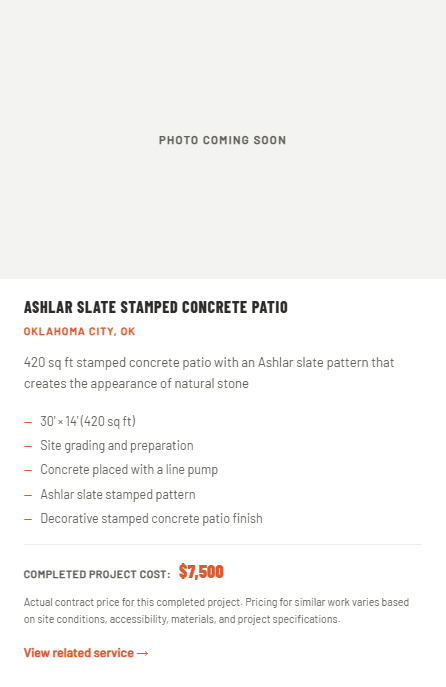
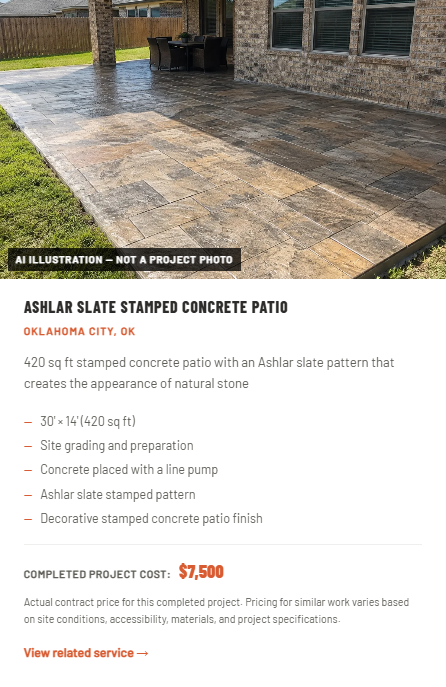
Show the owner-supplied ChatGPT Ashlar slate image on the Oklahoma City stamped patio card, labeled as an AI illustration.
WebP copy (1200x900) of the owner's ChatGPT-generated image; its C2PA manifest marks it as AI-created, so the alt text, filename, and a visible card label identify it as an illustration rather than a photo of the completed project. Screenshots refreshed.

diff --git a/src/test/project-showcase.test.tsx b/src/test/project-showcase.test.tsx
@@ -222,6 +222,38 @@ describe("Oklahoma City Ashlar slate stamped patio", () => {
     expect(JSON.stringify(stamped())).not.toMatch(/norman/i);
   });
 
+  it("uses a single image that is labeled as an AI illustration, not a project photo", () => {
+    expect(stamped().images).toEqual([
+      {
+        src: "/images/projects/ashlar-slate-stamped-concrete-patio-ai-illustration-oklahoma-city.webp",
+        alt: expect.stringMatching(/^AI-generated illustration .*not a photo of the completed Oklahoma City project$/),
+        illustration: true,
+      },
+    ]);
+    expect(PROJECTS.filter((p) => p.id !== STAMPED_ID).flatMap((p) => p.images).some((i) => i.illustration)).toBe(false);
+  });
+
+  it("shows the visible AI illustration label on the home card", () => {
+    render(
+      <MemoryRouter>
+        <ProjectGrid ids={[STAMPED_ID]} />
+      </MemoryRouter>,
+    );
+    const card = screen.getByRole("article");
+    expect(within(card).getByRole("img").getAttribute("alt")).toMatch(/AI-generated illustration/);
+    expect(within(card).getByText("AI illustration — not a project photo")).toBeTruthy();
+    expect(within(card).getByText("$7,500")).toBeTruthy();
+  });
+
+  it("does not label real project photos as illustrations", () => {
+    render(
+      <MemoryRouter>
+        <ProjectGrid ids={[GUTHRIE_ID, NEW_ID]} />
+      </MemoryRouter>,
+    );
+    expect(screen.queryByText("AI illustration — not a project photo")).toBeNull();
+  });
+
   it("shows Oklahoma City, 420 sq ft, and $7,500 on the /our-projects card", () => {
     renderOurProjects();
     const card = ourProjectsBlock(stamped());

diff --git a/src/components/ProjectCard.tsx b/src/components/ProjectCard.tsx
@@ -13,14 +13,21 @@ export default function ProjectCard({ project, badge }: ProjectCardProps) {
 
   return (
     <article className="bg-stone p-6 flex flex-col h-full">
-      <div className="mb-4 -mx-6 -mt-6 overflow-hidden bg-concrete/[0.06] aspect-[16/10]">
+      <div className="relative mb-4 -mx-6 -mt-6 overflow-hidden bg-concrete/[0.06] aspect-[16/10]">
         {image ? (
-          <img
-            src={image.src}
-            alt={image.alt}
-            className="w-full h-full object-cover"
-            loading="lazy"
-          />
+          <>
+            <img
+              src={image.src}
+              alt={image.alt}
+              className="w-full h-full object-cover"
+              loading="lazy"
+            />
+            {image.illustration && (
+              <span className="absolute left-2 bottom-2 bg-black/75 text-white px-2 py-1 text-[0.6rem] tracking-[0.1em] uppercase font-bold">
+                AI illustration — not a project photo
+              </span>
+            )}
+          </>
         ) : (
           // TODO(FDZ): photo
           <div

diff --git a/src/data/projects.ts b/src/data/projects.ts
@@ -6,6 +6,8 @@
 export type ProjectImage = {
   src: string;
   alt: string;
+  /** AI-generated or rendered image, not a job-site photo; always shown with a visible label. */
+  illustration?: boolean;
 };
 
 export type Project = {
@@ -221,7 +223,14 @@ export const PROJECTS: Project[] = [
     ownerPath: "/patios-oklahoma-city",
     details:
       "420 sq ft stamped concrete patio with an Ashlar slate pattern that creates the appearance of natural stone",
-    images: [], // TODO(FDZ): add the owner's completed stamped patio photos
+    // TODO(FDZ): replace the AI illustration with the owner's completed stamped patio photos
+    images: [
+      {
+        src: "/images/projects/ashlar-slate-stamped-concrete-patio-ai-illustration-oklahoma-city.webp",
+        alt: "AI-generated illustration of an Ashlar slate stamped concrete patio, not a photo of the completed Oklahoma City project",
+        illustration: true,
+      },
+    ],
     sqft: 420,
     year: null, // TODO(FDZ)
     featured: false,

diff --git a/OWNER_TODO.md b/OWNER_TODO.md
@@ -10,7 +10,7 @@ Items marked `TODO(FDZ)` in source. None of this text appears in built HTML (ver
 | `src/pages/PatiosOklahomaCity.tsx` | 86 | Add stamped pattern photos labeled by pattern name |
 | `src/pages/OurProjects.tsx` | 258 | Project photo placeholder |
 | `src/components/ProjectCard.tsx` | 24 | Fallback when a project has no images |
-| `src/data/projects.ts` | 226 | `okc-stamped-patio` — add the owner's completed stamped patio photos |
+| `src/data/projects.ts` | 226 | `okc-stamped-patio` — replace the AI illustration with the owner's completed stamped patio photos |
 | `src/data/projects.ts` | 244 | `mustang-foundation` — photos |
 | `src/data/projects.ts` | 258 | `moore-patio` — photos |
 | `src/data/projects.ts` | 272 | `edmond-row-sidewalk` — photos |
